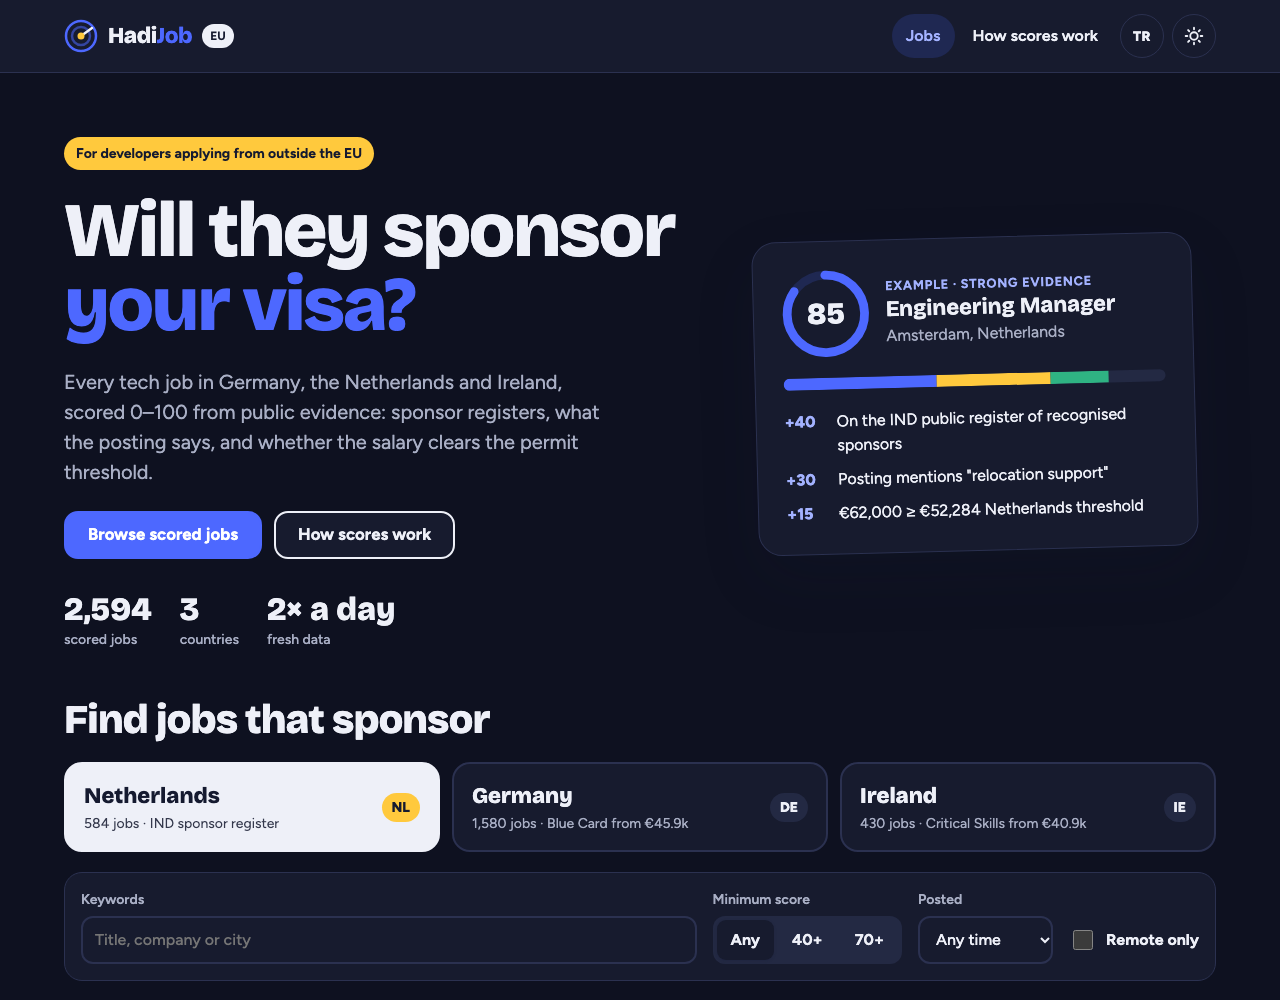
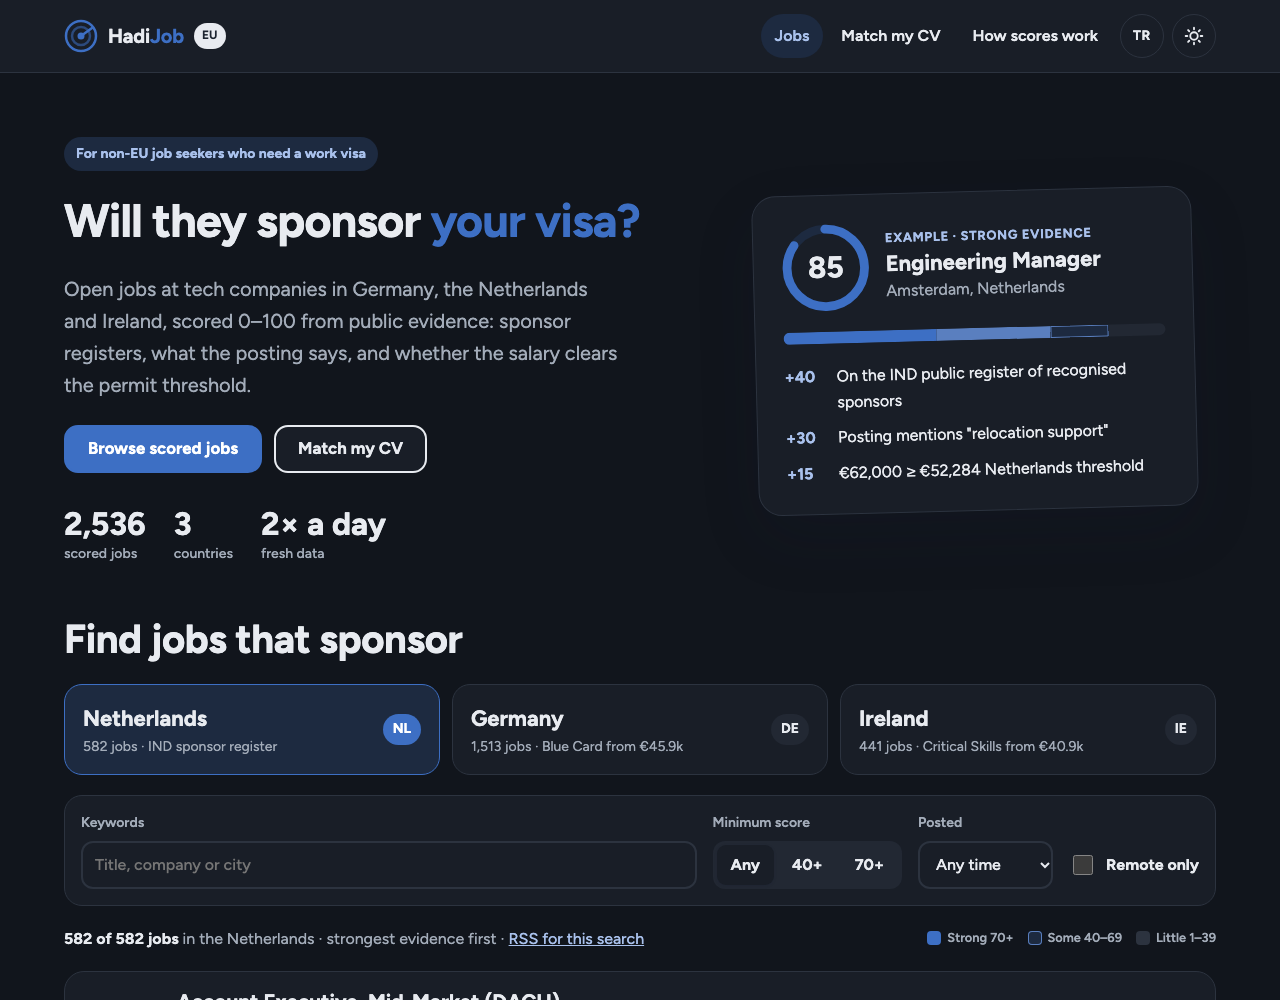
docs: showcase covers Turkish, CV matching, the calm style and the v1 API, with new screenshots

diff --git a/README.md b/README.md
@@ -4,9 +4,9 @@
 
 # HadiJob
 
-**How likely is this EU tech job to sponsor your visa?**
+**How likely is this EU job to sponsor your visa?**
 
-Every tech job in Germany, the Netherlands and Ireland, scored 0–100 for visa sponsorship, with the public evidence behind each score.
+Open jobs at tech companies in Germany, the Netherlands and Ireland, scored 0–100 for visa sponsorship, with the public evidence behind each score. In English and Turkish.
 
 _"Hadi!" is Turkish for "come on, let's go"._
 
@@ -41,12 +41,14 @@ HadiJob checks **public evidence** instead: government sponsor registers, what t
 - **Official sponsor evidence.** The Dutch IND public register of recognised sponsors (13,000+ organisations), matched to employers with 100% precision on a hand-labelled set.
 - **Reads the posting for you.** Sponsorship offers, relocation packages and "no sponsorship" rule-outs, with negation handled ("we do _not_ offer visa sponsorship").
 - **Salary against real thresholds.** 2026 work-permit minimums for Germany, the Netherlands and Ireland, comparing base salary only (commission and deal sizes are ignored).
-- **Built to scan.** Colour-coded score tiles, evidence chips on every result, and a score ring with a bar showing how the points add up.
+- **Built to scan, calm to read.** One accent colour and one typeface. Score tiles, evidence chips on every result, and a score ring with a bar showing how the points add up.
+- **English and Turkish.** The language follows the visitor's region (Turkish in Turkey, English elsewhere) and can be switched in the header. Evidence lines are written from structured facts, so they read naturally in both languages.
+- **Match your CV, privately.** Drop in an English PDF CV: it is read in your browser, never uploaded, and the skills found are compared with each job. Results rank by fit, and every job page shows which of its skills you have.
 - **Search that stays shareable.** Filters live in the URL: country, keywords, minimum score, posting date, remote.
 - **RSS alerts.** One feed per country and score level, with no account or email needed.
 - **Fresh twice a day,** and redeployed within minutes of a merged change.
 - **Light and dark.** Follows your system setting, with a toggle that remembers your choice.
-- **No personal data.** No accounts, cookies, tracking or forms.
+- **Free, and no personal data.** No accounts, cookies or tracking. The only thing kept is your skills list, in your own browser.
 
 <p align="center"><img src=".github/assets/mobile.png" alt="Search and job pages on a phone (390px)" width="560"></p>
 
@@ -109,7 +111,7 @@ From a full pipeline run on 2026-11-01:
 | Company matching (automatic rules) | **100% precision · 81.8% recall** on 100 hand-labelled pairs |
 | Duplicate postings folded          | **1,179** into 660 roles                                     |
 | Full refresh of all boards         | **75 s** (down from 37 min)                                  |
-| Tests                              | **262**, plus an end-to-end smoke test                       |
+| Tests                              | **334**, plus an end-to-end smoke test                       |
 
 ## Engineering highlights
 
@@ -122,6 +124,7 @@ From a full pipeline run on 2026-11-01:
 - **End-to-end smoke test in CI.** Every pull request runs the real pipeline twice on fixtures, fully offline: a test-only `fetch` stub answers the API calls and fails any other request. About 3 seconds.
 - **Safe output.** All job-board text is treated as untrusted: React escapes it, RSS goes through an XML escaper, and only http(s) links are kept.
 - **Accessible and private by design.** Real buttons and labelled inputs, 44px touch targets, visible focus, reduced-motion support, and self-hosted fonts, so a visit makes no third-party requests.
+- **Privacy by architecture.** CV matching runs entirely in the browser: pdf.js reads the PDF, a skill taxonomy extracts the skills, and only that list is kept, in the visitor's own storage. No CV ever reaches a server.
 - **Decisions on record.** Every architectural choice is written down as a decision record, and work goes through small, CI-gated pull requests.
 
 ## Tech stack
@@ -129,10 +132,11 @@ From a full pipeline run on 2026-11-01:
 | Area       | Choice                                                                                    |
 | ---------- | ----------------------------------------------------------------------------------------- |
 | Language   | TypeScript (strict) on Node 24, run directly without a build step                         |
-| Monorepo   | pnpm workspaces: core logic, pipeline, web                                                |
+| Monorepo   | pnpm workspaces: core logic, pipeline, web, API                                           |
 | Validation | Zod                                                                                       |
 | Storage    | SQLite via `node:sqlite`                                                                  |
-| Web        | React 19 + Vite, plain CSS with design tokens, light and dark themes                      |
+| Web        | React 19 + Vite, plain CSS with design tokens, light and dark themes, English and Turkish |
+| API (v1)   | Fastify, Kysely + Postgres, Testcontainers. Built and tested, not deployed yet            |
 | Testing    | Vitest, Testing Library, jsdom, plus an offline end-to-end smoke test                     |
 | Quality    | ESLint, Prettier, CodeQL, dependency review                                               |
 | Automation | GitHub Actions: CI on every PR, pipeline twice a day and on merge, deploy to GitHub Pages |
@@ -142,18 +146,20 @@ From a full pipeline run on 2026-11-01:
 - **Public, keyless endpoints only:** the Greenhouse, Lever and Ashby job board APIs, and the IND public register. No LinkedIn or Indeed, no scraping behind logins.
 - **Metadata plus a link out.** Full job descriptions are never stored or republished.
 - **IND attribution** on every piece of evidence, as the IND's reuse terms require.
-- **Corrections and removal on request.**
+- **Corrections and removal on request,** through the [correction form](https://github.com/ilker-ekin/hadijob/issues/new/choose).
 
 ## Roadmap
 
 - [x] Ingestion, IND register and company matching
 - [x] Explainable scoring, dedup, RSS feeds and the static site
 - [x] Automated pipeline and deploys, end-to-end smoke test
-- [x] HadiJob redesign with light and dark themes
+- [x] HadiJob redesign with light and dark themes, then a calmer visual style
+- [x] English and Turkish, with evidence written in the visitor's language
+- [x] CV matching in the browser: skills from your CV, jobs ranked by fit
+- [x] v1 API foundations: sign-in and the job API (built, not deployed)
 - [ ] Public launch on its own domain
 - [ ] More countries and sponsor registers
-- [ ] Accounts, saved searches and email digests
-- [ ] CV upload and jobs ranked by fit to your CV
+- [ ] Deploy the API, then saved searches and email digests
 
 ## License
 
